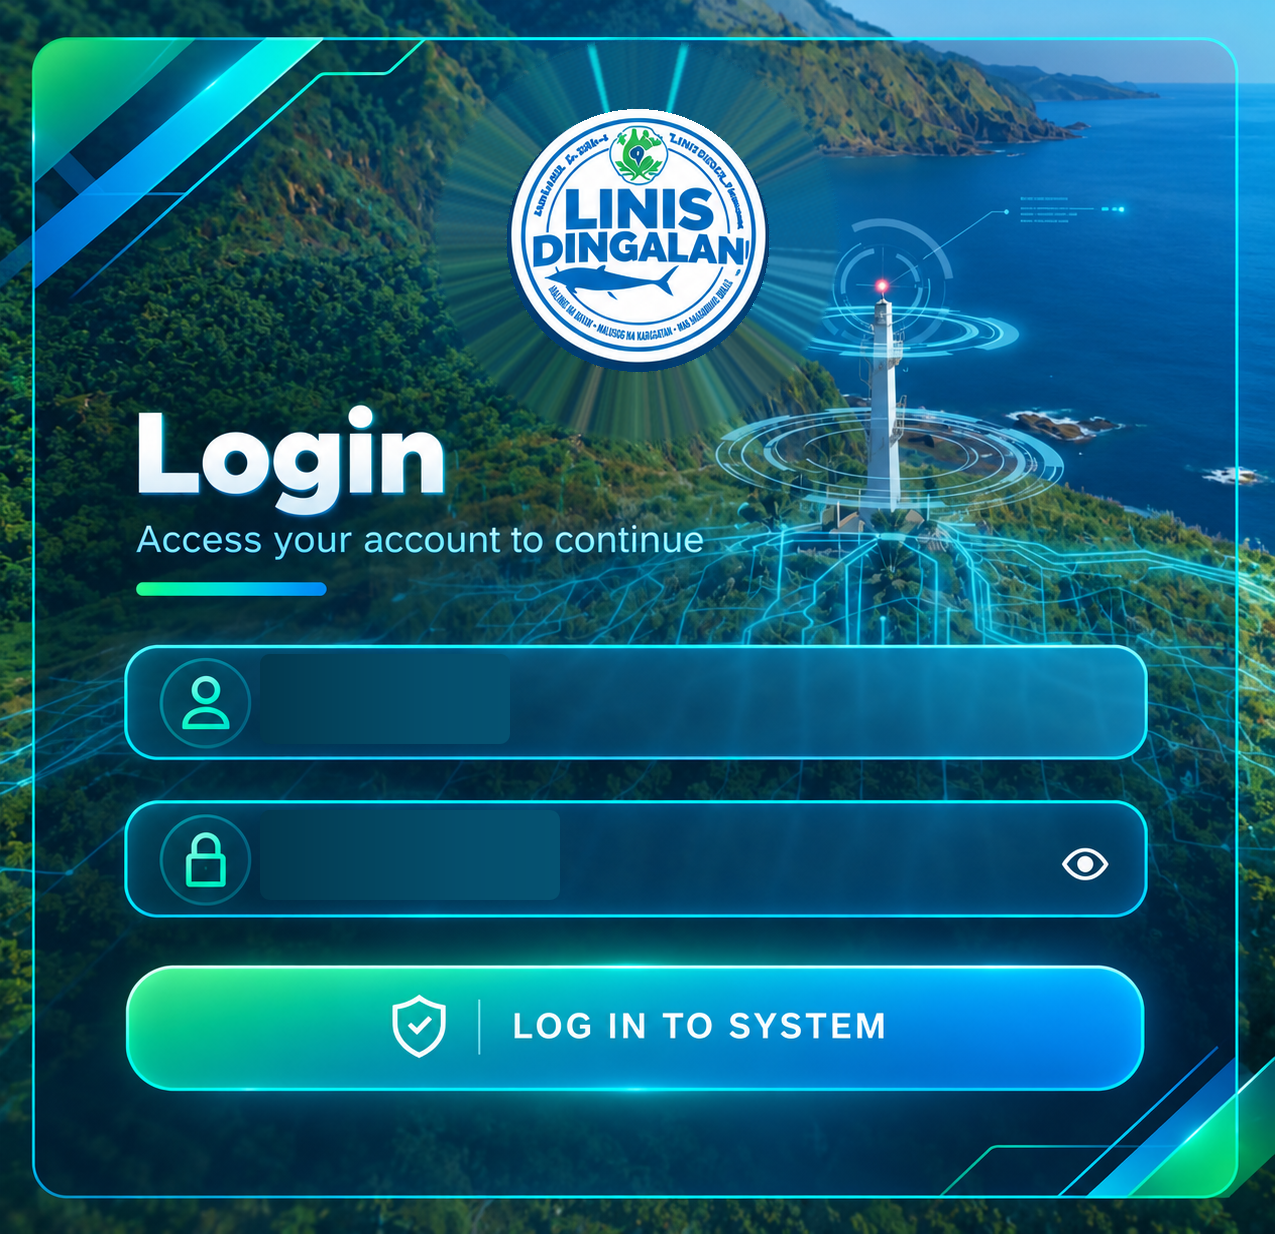
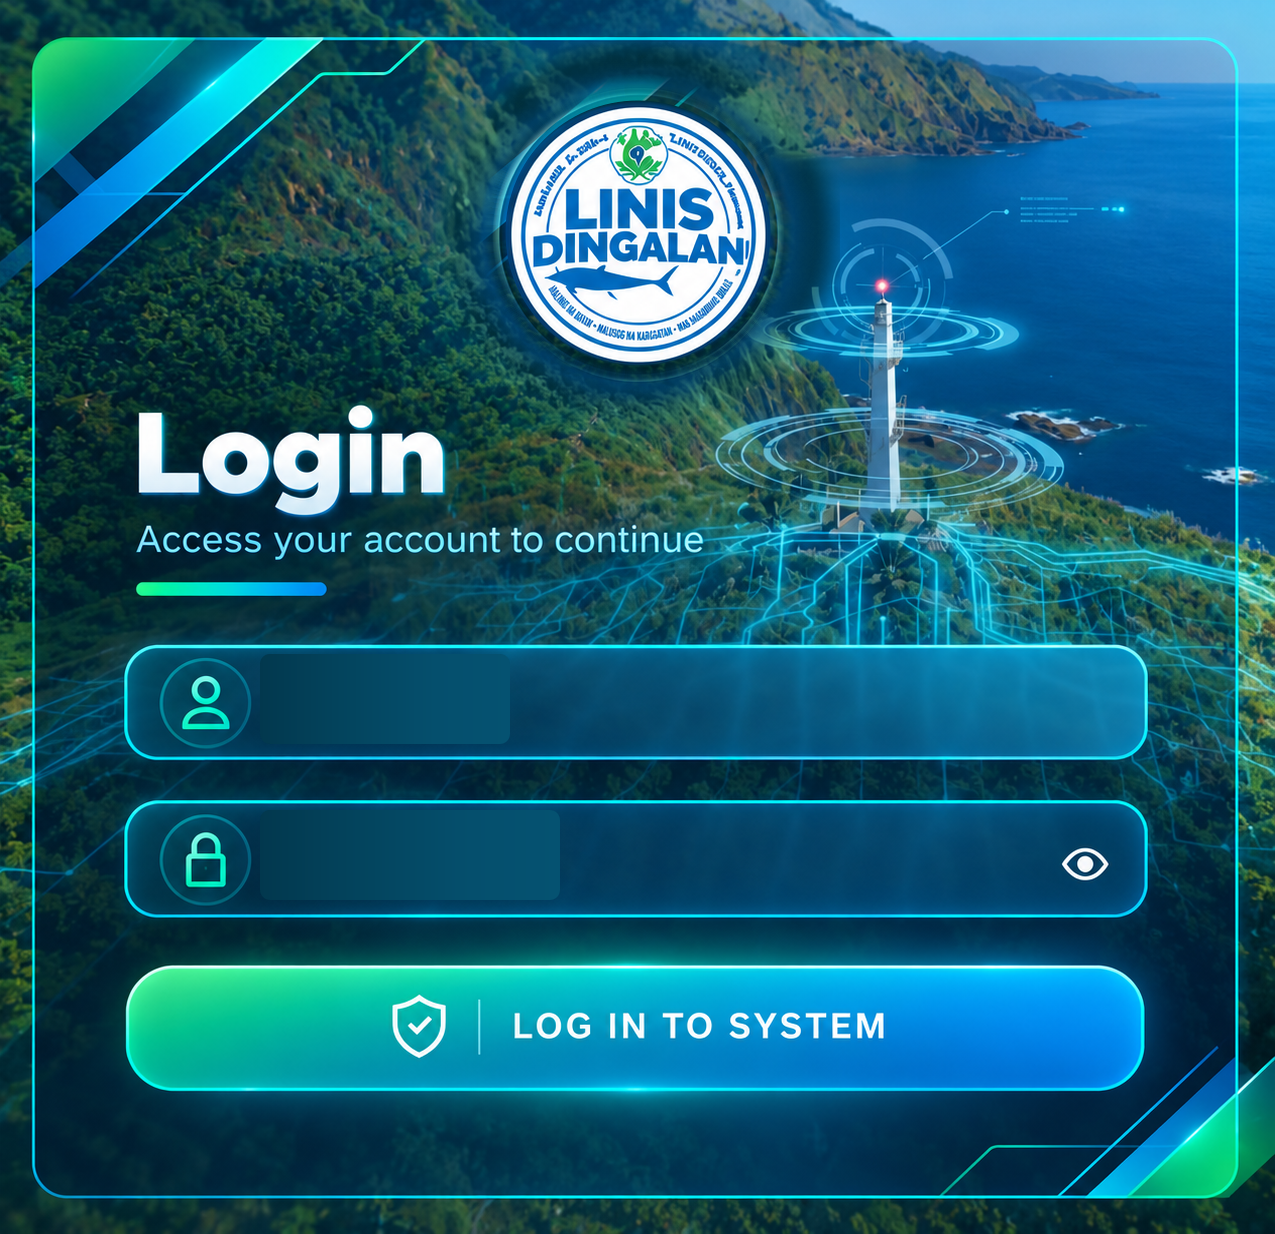
refactor: remove restricted access UI and assets
Remove the restricted access login modal UI and associated graphical assets. Also include a minor type update in the manuscript generation script.

Changed region(s): [[0.3365, 0.0308, 0.6729, 0.3695]]

diff --git a/src/components/LoginModal.tsx b/src/components/LoginModal.tsx
@@ -1610,36 +1610,7 @@ export const LoginModal: React.FC<LoginModalProps> = ({
 
                       {/* Body Content (Fits on mobile without scrolling) */}
                       <div className="p-2 xs:p-2.5 sm:p-5 overflow-hidden sm:overflow-y-auto space-y-1.5 xs:space-y-2 sm:space-y-4 flex-1 min-h-0 text-left scrollbar-none">
-                        {!eventBroadcast ? (
-                          <div className="text-center py-6 sm:py-12 space-y-4 sm:space-y-5 my-auto animate-scaleIn">
-                            <div className="relative w-16 h-16 sm:w-24 sm:h-24 mx-auto">
-                              <div className="absolute inset-0 rounded-full bg-rose-500/30 animate-ping opacity-75" />
-                              <div className="relative w-16 h-16 sm:w-24 sm:h-24 rounded-full bg-gradient-to-tr from-rose-600/30 to-rose-500/20 border-2 border-rose-500 flex items-center justify-center text-rose-400 shadow-[0_0_40px_rgba(244,63,94,0.6)] animate-bounce duration-1000">
-                                <AlertCircle className="w-8 h-8 sm:w-12 sm:h-12" />
-                              </div>
-                            </div>
-                            <div className="space-y-2 sm:space-y-3 max-w-lg mx-auto px-4 py-4 sm:py-5 rounded-2xl bg-rose-950/40 border border-rose-500/50 shadow-inner">
-                              <span className="px-3.5 py-1.5 rounded-full text-[10px] sm:text-xs font-mono font-black bg-rose-500/25 text-rose-300 border border-rose-500/50 uppercase tracking-widest shadow-[0_0_20px_rgba(244,63,94,0.4)] animate-pulse inline-block">
-                                RESTRICTED ACCESS • NO ACTIVE WORK PROGRAM
-                              </span>
-                              <h4 className="text-base sm:text-2xl font-black text-white uppercase tracking-tight leading-snug drop-shadow-md">
-                                Sorry, you cannot upload pictures when there is no scheduled work program.
-                              </h4>
-                              <p className="text-[11px] sm:text-xs text-slate-300 uppercase font-semibold leading-relaxed">
-                                Apologies, but uploading accomplishment pictures is strictly prohibited until an official work program or schedule is scheduled and broadcasted for today.
-                              </p>
-                            </div>
-                            <div className="pt-2">
-                              <button
-                                type="button"
-                                onClick={() => setActiveView('event')}
-                                className="px-8 py-3 rounded-xl bg-gradient-to-r from-rose-600 to-rose-700 hover:from-rose-500 hover:to-rose-600 text-white font-mono text-xs sm:text-sm font-black uppercase cursor-pointer border border-rose-400 shadow-[0_0_25px_rgba(244,63,94,0.5)] transition-all transform hover:-translate-y-0.5 active:scale-95"
-                              >
-                                Back to Advisory
-                              </button>
-                            </div>
-                          </div>
-                        ) : uploadIsSuccess ? (
+                        {uploadIsSuccess ? (
                           <div className="text-center py-2 sm:py-6 space-y-2 sm:space-y-3.5 animate-scaleIn">
                             <div className="w-10 h-10 sm:w-20 sm:h-20 mx-auto rounded-full bg-emerald-500/20 border-2 border-emerald-400 flex items-center justify-center shadow-[0_0_30px_rgba(16,185,129,0.4)]">
                               <CheckCircle2 className="w-5 h-5 sm:w-10 sm:h-10 text-emerald-400" />
@@ -2182,6 +2153,7 @@ export const LoginModal: React.FC<LoginModalProps> = ({
                 /* EVENT ADVISORY / SCHEDULE VIEW: COMPACT ON MOBILE SCREEN                  */
                 /* ========================================================================= */
                 <div className="w-full max-w-xl sm:max-w-2xl mx-auto space-y-2">
+
                   {eventBroadcast ? (
 
                   <div className="relative rounded-xl sm:rounded-3xl border-2 border-emerald-400/80 shadow-[0_0_40px_rgba(16,185,129,0.35),inset_0_0_20px_rgba(16,185,129,0.15)] bg-slate-950/95 hover:bg-slate-950/98 backdrop-blur-md p-2.5 xs:p-3 sm:p-6 lg:p-7 space-y-1.5 xs:space-y-2 sm:space-y-4 transition-all duration-300 hover:border-emerald-300 animate-scaleIn w-full text-left flex flex-col max-h-[calc(100dvh-65px)] sm:max-h-none overflow-y-auto sm:overflow-visible scrollbar-none [&::-webkit-scrollbar]:hidden">
@@ -2525,7 +2497,7 @@ export const LoginModal: React.FC<LoginModalProps> = ({
                 >
                   {/* The Authentic Pixel-Perfect Card Artwork */}
                   <img
-                    src="/assets/neon_coastal_card_bg.png"
+                    src="/assets/neon_coastal_card_bg.png?v=clean_flawless"
                     alt="Neon Coastal Login Interface"
                     className="absolute inset-0 w-full h-full object-cover select-none pointer-events-none z-0"
                   />
@@ -2605,87 +2577,6 @@ export const LoginModal: React.FC<LoginModalProps> = ({
                       <span className="absolute w-2 h-2 rounded-full bg-red-400 shadow-[0_0_8px_#ef4444]" />
                     </div>
 
-                    {/* 2. Official Linis Dingalan Logo - No Outer Blue Circle + EC Access Shimmer & Shine Animation */}
-                    <div
-                      className="absolute top-[19.45%] left-1/2 -translate-x-1/2 -translate-y-1/2 w-[21%] aspect-square rounded-full pointer-events-none select-none z-10 flex items-center justify-center animate-logo-glow"
-                    >
-                      {/* Crisp Clean Logo Image without Blue Outer Circle */}
-                      <img
-                        src="/assets/linis_dingalan_card_logo_clean.png"
-                        alt="Linis Dingalan Logo"
-                        className="w-full h-full object-contain rounded-full select-none"
-                      />
-
-                      {/* Moving Shimmer Sheen Layer (Exact EC Access LinearGradient Animation) */}
-                      <svg
-                        className="absolute inset-0 w-full h-full rounded-full pointer-events-none mix-blend-screen overflow-hidden"
-                        viewBox="0 0 100 100"
-                      >
-                        <defs>
-                          <linearGradient id="card-seal-shimmer-sweep" x1="-120%" y1="-40%" x2="40%" y2="140%">
-                            <stop offset="0%" stopColor="#00c875" stopOpacity="0" />
-                            <stop offset="35%" stopColor="#00c875" stopOpacity="0" />
-                            <stop offset="45%" stopColor="#a7f3d0" stopOpacity="0.45" />
-                            <stop offset="50%" stopColor="#ffffff" stopOpacity="0.95" />
-                            <stop offset="55%" stopColor="#38bdf8" stopOpacity="0.5" />
-                            <stop offset="65%" stopColor="#00c875" stopOpacity="0" />
-                            <stop offset="100%" stopColor="#00c875" stopOpacity="0" />
-                            <animate attributeName="x1" from="-140%" to="180%" dur="2.8s" repeatCount="indefinite" />
-                            <animate attributeName="x2" from="20%" to="340%" dur="2.8s" repeatCount="indefinite" />
-                          </linearGradient>
-                          <clipPath id="card-seal-circle-clip">
-                            <circle cx="50" cy="50" r="49" />
-                          </clipPath>
-                        </defs>
-                        <circle
-                          cx="50"
-                          cy="50"
-                          r="49"
-                          fill="url(#card-seal-shimmer-sweep)"
-                          clipPath="url(#card-seal-circle-clip)"
-                        />
-                      </svg>
-
-                      {/* Dynamic Diagonal Light Sweep Glint (Matching EC Access Light Sweep) */}
-                      <div className="absolute inset-0 rounded-full overflow-hidden pointer-events-none">
-                        <div className="w-full h-full animate-light-sweep bg-gradient-to-r from-transparent via-white/50 to-transparent skew-x-[-25deg]" />
-                      </div>
-
-                      {/* Twinkling Sparkle Stars (Kumikinang na Bituin katulad ng EC Access) */}
-                      <motion.div
-                        animate={{
-                          scale: [0, 1.25, 0],
-                          rotate: [0, 90, 180],
-                          opacity: [0, 1, 0],
-                        }}
-                        transition={{
-                          duration: 2.2,
-                          repeat: Infinity,
-                          ease: "easeInOut",
-                          delay: 0.2,
-                        }}
-                        className="absolute -top-1 -right-1 text-emerald-300 drop-shadow-[0_0_8px_#34d399] pointer-events-none"
-                      >
-                        <Sparkles className="w-3.5 h-3.5 sm:w-4 sm:h-4 text-emerald-300 fill-emerald-300" />
-                      </motion.div>
-
-                      <motion.div
-                        animate={{
-                          scale: [0, 1.15, 0],
-                          rotate: [0, -90, -180],
-                          opacity: [0, 0.95, 0],
-                        }}
-                        transition={{
-                          duration: 2.6,
-                          repeat: Infinity,
-                          ease: "easeInOut",
-                          delay: 1.3,
-                        }}
-                        className="absolute -bottom-1 -left-1 text-cyan-300 drop-shadow-[0_0_8px_#22d3ee] pointer-events-none"
-                      >
-                        <Sparkles className="w-3 h-3 sm:w-3.5 sm:h-3.5 text-cyan-300 fill-cyan-300" />
-                      </motion.div>
-                    </div>
 
                     {/* 3. Bioluminescent Floating Cyber Particles */}
                     <motion.div
@@ -2813,7 +2704,6 @@ export const LoginModal: React.FC<LoginModalProps> = ({
                         left: '18.4%',
                         width: '70.2%',
                         height: '8.4%',
-                        backgroundColor: 'transparent',
                       }}
                     >
                       <input
@@ -2827,7 +2717,7 @@ export const LoginModal: React.FC<LoginModalProps> = ({
                           WebkitTextFillColor: '#ffffff',
                           backgroundColor: 'transparent',
                         }}
-                        className="w-full h-full bg-transparent text-white placeholder:text-transparent pl-3 sm:pl-4 text-sm sm:text-base md:text-xl font-bold font-sans focus:outline-none tracking-wide border-0 shadow-none"
+                        className="w-full h-full bg-transparent text-white placeholder:text-transparent pl-3 sm:pl-4 text-sm sm:text-base md:text-xl font-bold font-sans focus:outline-none tracking-wide"
                       />
                     </div>
 
@@ -2839,7 +2729,6 @@ export const LoginModal: React.FC<LoginModalProps> = ({
                         left: '18.4%',
                         width: '63.5%',
                         height: '8.4%',
-                        backgroundColor: 'transparent',
                       }}
                     >
                       <input
@@ -2853,7 +2742,7 @@ export const LoginModal: React.FC<LoginModalProps> = ({
                           WebkitTextFillColor: '#ffffff',
                           backgroundColor: 'transparent',
                         }}
-                        className="w-full h-full bg-transparent text-white placeholder:text-transparent pl-3 sm:pl-4 text-sm sm:text-base md:text-xl font-bold font-sans focus:outline-none tracking-widest border-0 shadow-none"
+                        className="w-full h-full bg-transparent text-white placeholder:text-transparent pl-3 sm:pl-4 text-sm sm:text-base md:text-xl font-bold font-sans focus:outline-none tracking-widest"
                       />
                     </div>
 

diff --git a/scripts/generateManuscript.ts b/scripts/generateManuscript.ts
@@ -79,7 +79,7 @@ function buildTable(headers: string[], rows: string[][], colWidths?: number[]): 
   });
 }
 
-function p(text: string, options: { bold?: boolean; italic?: boolean; size?: number; align?: any; color?: string; spaceBefore?: number; spaceAfter?: number } = {}): Paragraph {
+function p(text: string, options: { bold?: boolean; italic?: boolean; size?: number; align?: (typeof AlignmentType)[keyof typeof AlignmentType]; color?: string; spaceBefore?: number; spaceAfter?: number } = {}): Paragraph {
   return new Paragraph({
     alignment: options.align || AlignmentType.JUSTIFIED,
     spacing: {

diff --git a/src/index.css b/src/index.css
@@ -60,10 +60,10 @@
 
 @keyframes logoGlow {
   0%, 100% {
-    filter: drop-shadow(0 0 12px rgba(0, 200, 117, 0.45)) drop-shadow(0 4px 10px rgba(0, 0, 0, 0.9));
+    filter: none;
   }
   50% {
-    filter: drop-shadow(0 0 24px rgba(6, 182, 212, 0.8)) drop-shadow(0 0 16px rgba(0, 200, 117, 0.85)) drop-shadow(0 4px 12px rgba(0, 0, 0, 0.95));
+    filter: none;
   }
 }
 
